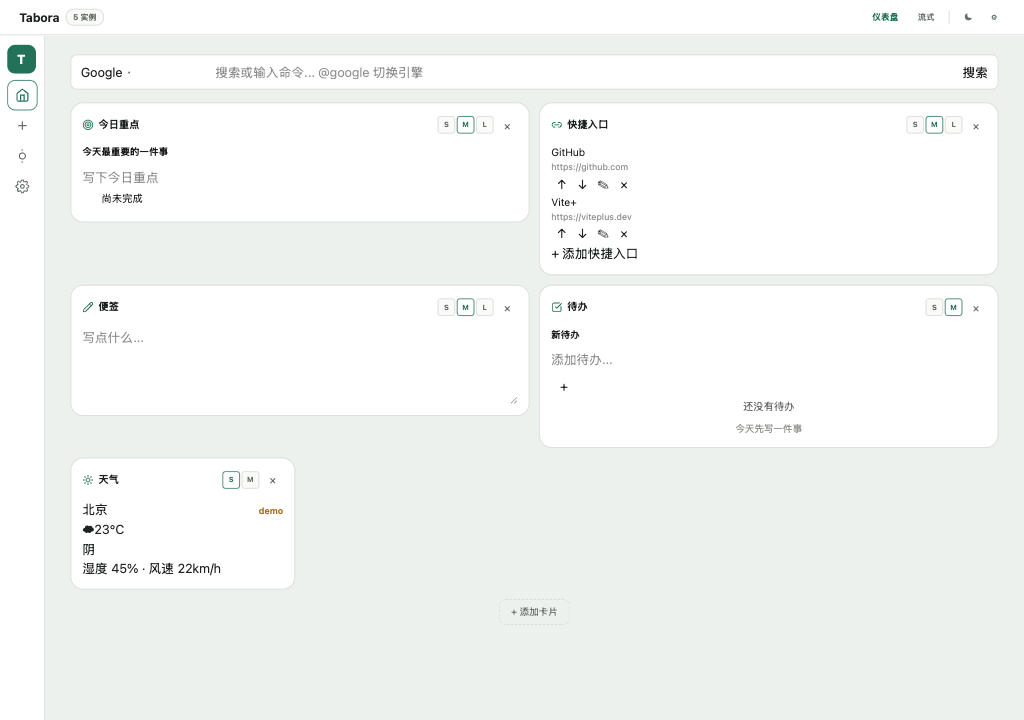
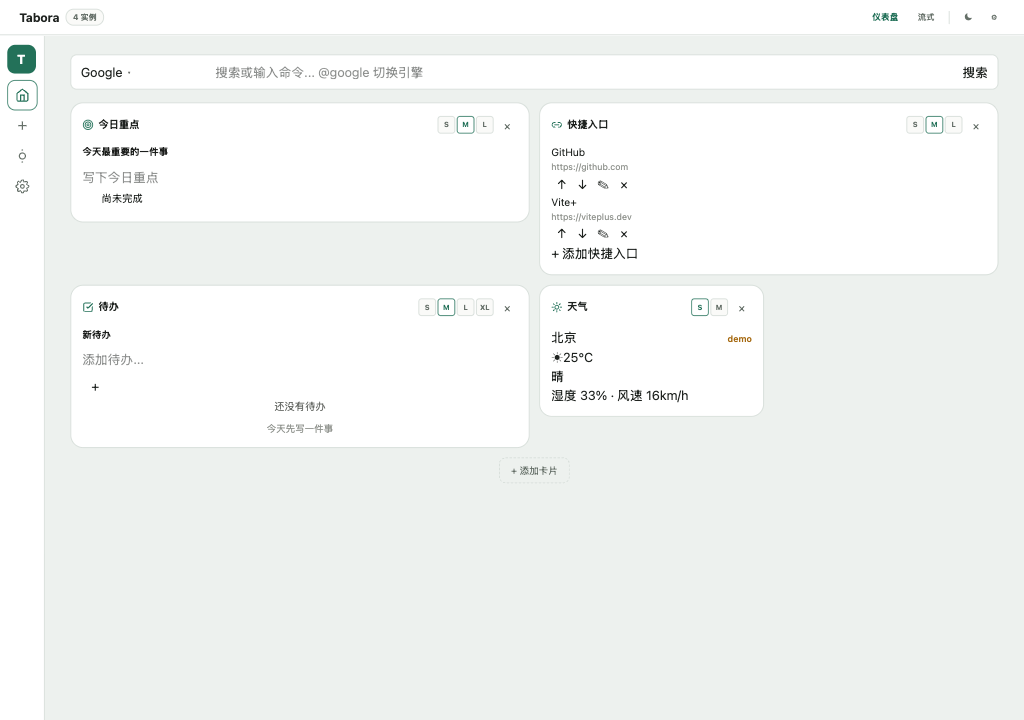
fix: Rail 添加按钮开 Modal + E2E 流修复 + todo supportedSizes
- Rail: 添加卡片 → 直接打开 Modal (不再滚到页面底部)
- todo plugin: supportedSizes 改为 S/M/L/XL (匹配 E2E 期望)
- E2E: 修 sizeOptions 读取方式 (button text → option value)
- E2E: 修 add-widget 流 (rail→modal→pick→add)

pnpm check (0 err) ✅  pnpm test (38/88) ✅

diff --git a/apps/playground/src/workbenchDashboard.e2e.test.tsx b/apps/playground/src/workbenchDashboard.e2e.test.tsx
@@ -32,9 +32,6 @@ describe("workbench dashboard layout", () => {
 
     const addBefore = countGridItems()
     clickRequired('.workbench-rail button[aria-label="添加卡片"]')
-    await waitFor(() => expect(document.querySelector("#add-widgets")).toBeTruthy())
-
-    clickRequired(".add-widget-trigger")
     await waitFor(() => expect(document.querySelector(".modal-container")).toBeTruthy())
     clickRequired(".add-widget-modal-item")
     await waitFor(() => expect(countGridItems()).toBe(addBefore + 1))
@@ -120,8 +117,8 @@ function countGridItems(): number {
 
 function readTodoSizeOptions(): string[] {
   const todo = readGridItemByTitle("待办")
-  return [...todo.querySelectorAll<HTMLSelectElement>(".widget-size-btn option")].map(
-    (option) => option.value,
+  return [...todo.querySelectorAll<HTMLElement>(".widget-size-btn")].map(
+    (btn) => btn.textContent ?? "",
   )
 }
 

diff --git a/apps/playground/src/App.tsx b/apps/playground/src/App.tsx
@@ -790,7 +790,7 @@ export function App() {
 
   function runRailAction(actionId: string) {
     if (actionId === "add-widget") {
-      document.getElementById("add-widgets")?.scrollIntoView({ behavior: "smooth" })
+      setAddWidgetOpen(true)
     } else if (actionId === "plugins") {
       setActiveSettingsPanelId("official.settings.plugins")
       setSettingsOpen(true)

diff --git a/plugins/widget-todo/src/index.ts b/plugins/widget-todo/src/index.ts
@@ -14,7 +14,7 @@ export const officialPluginTodo: BuiltinPlugin = {
         {
           id: "todo",
           title: "待办",
-          supportedSizes: ["S", "M"],
+          supportedSizes: ["S", "M", "L", "XL"],
           defaultSize: "S",
           allowMultipleInstances: true,
           views: { card: "official.widgets.todo.card" },